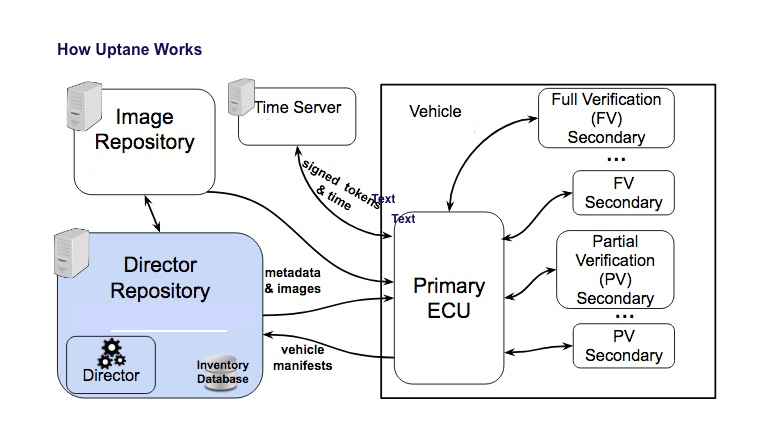
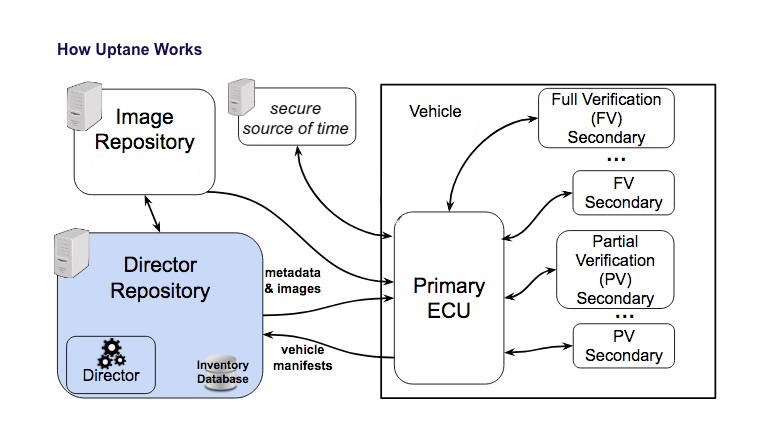
Remove time server from uptane process diagram
Also merges multiple versions of the same file and updates
reference accordingly.

diff --git a/design.md b/design.md
@@ -5,7 +5,7 @@ css_id: design
 
 # Uptane Design
 
-<img align="left" src="assets/images/Uptane_process_331.png" width="500" style="margin: 0px 20px"/>
+<img align="left" src="assets/images/Uptane_process.png" width="500" style="margin: 0px 20px"/>
 
 
 
